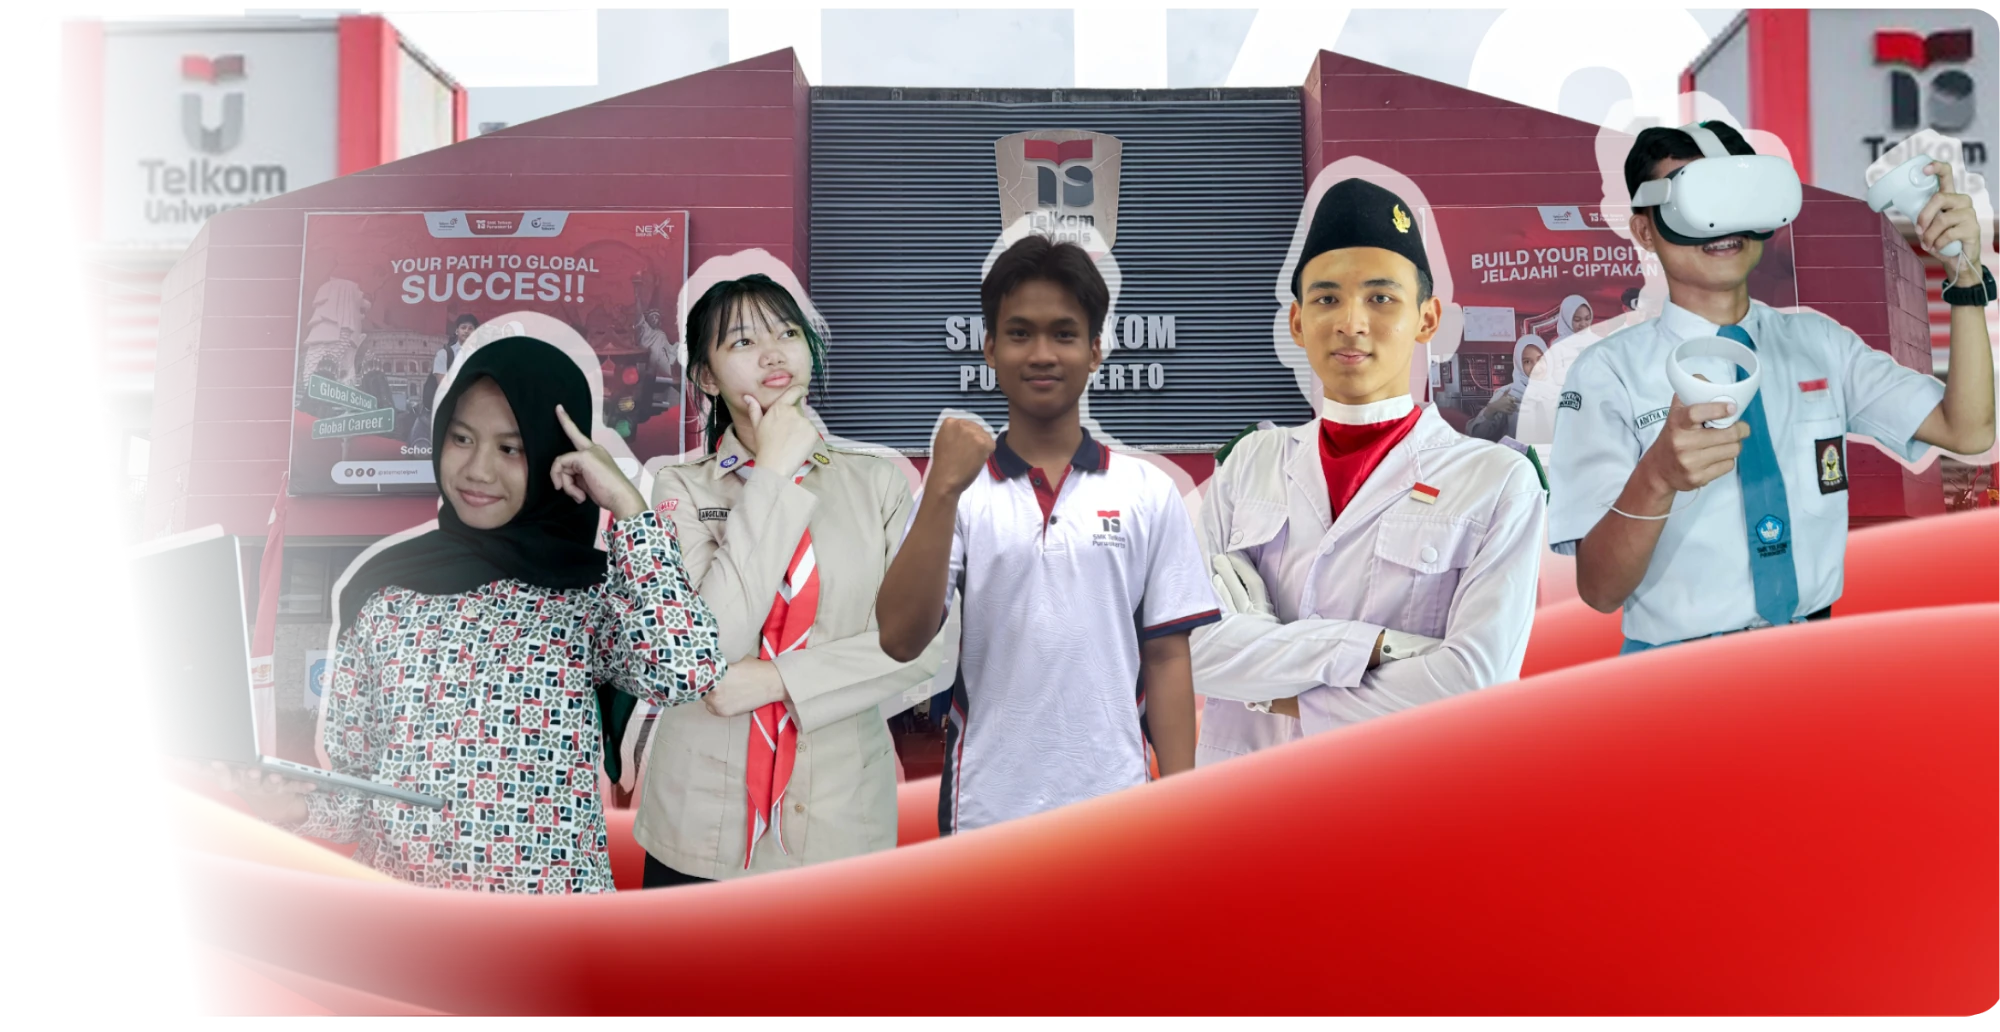
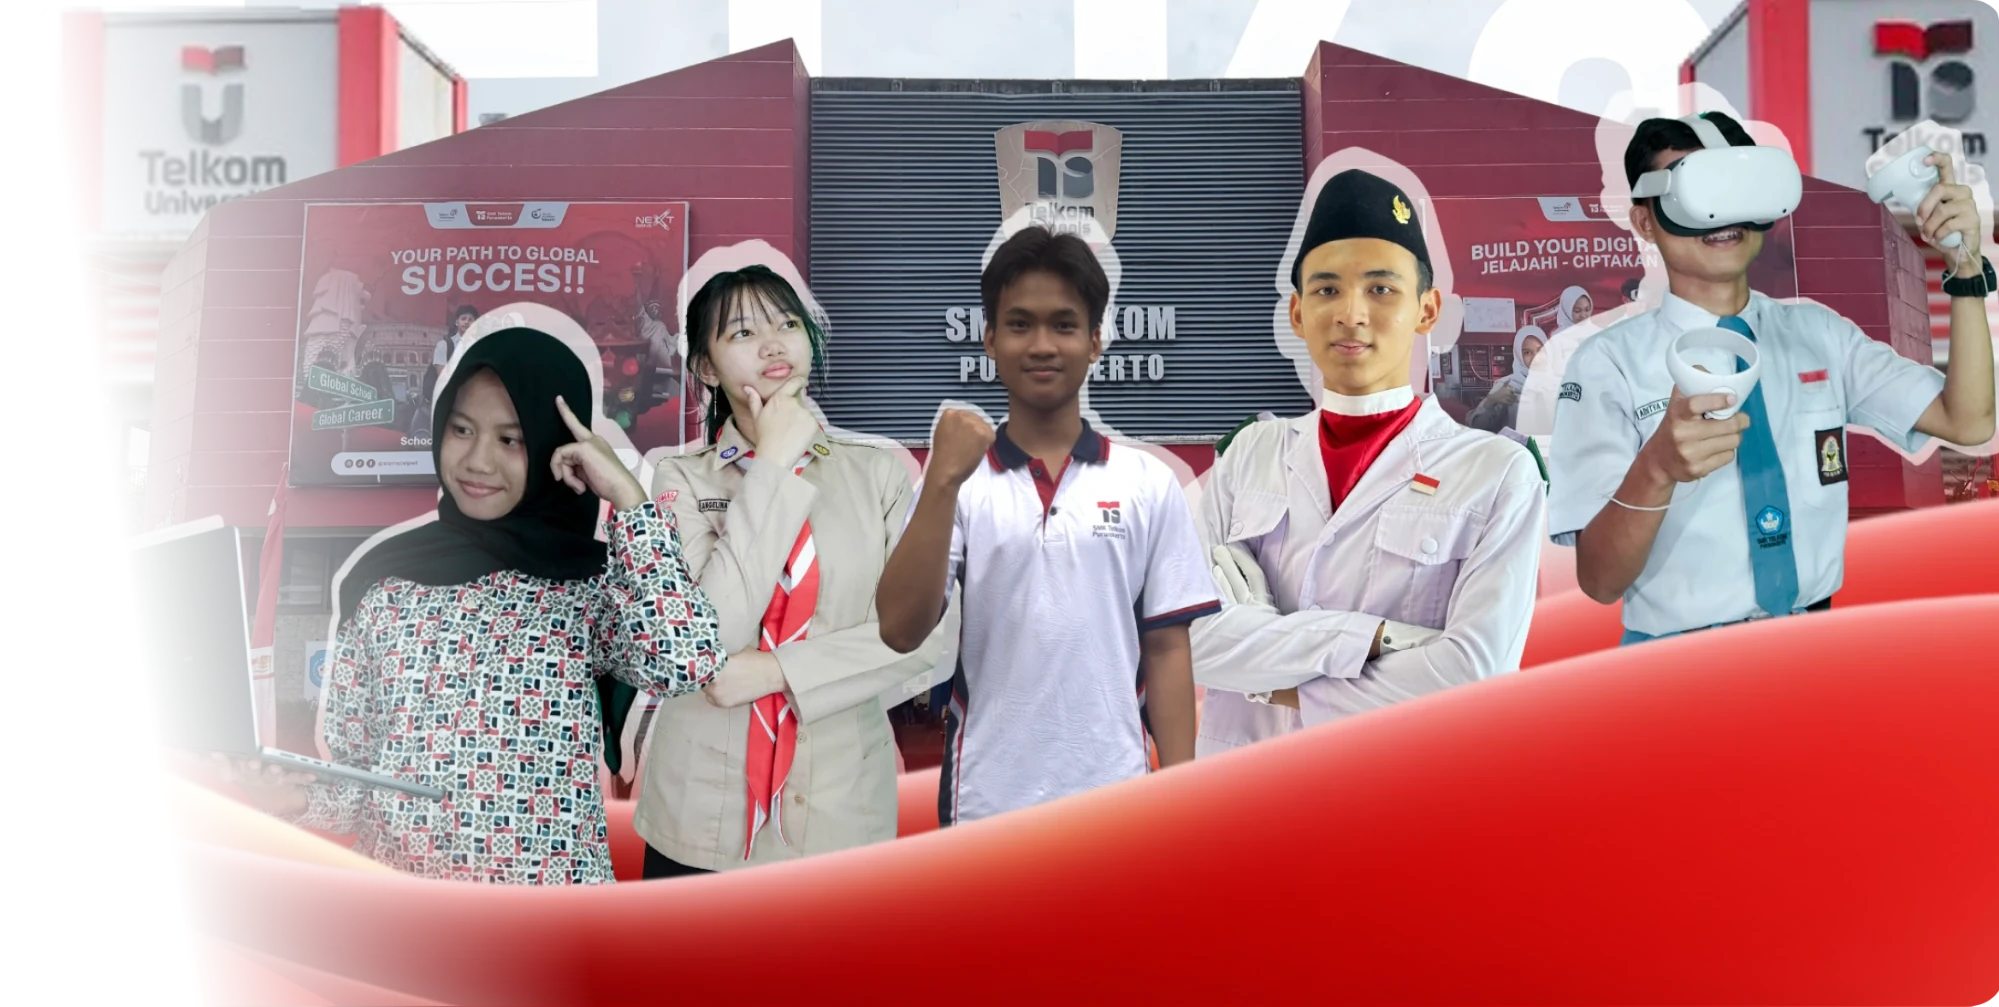
fix(ekskul-hero): crop transparent margins so the photo fills the card
The exported artwork had 9px/16px transparent bands top and bottom and a
transparent right column, leaving white gaps inside the hero card.

diff --git a/frontend/src/styles/hero.css b/frontend/src/styles/hero.css
@@ -132,7 +132,7 @@
 .hero-panel--bleed .hero-background { margin: 0; border-radius: 0; }
 .hero-panel--bleed .hero-profile-crop { border-radius: 0; }
 .hero-panel--teachers { --hero-media-ratio: 2200 / 1033; --hero-media-width: 72%; --hero-media-position: left center; }
-.hero-panel--activities { --hero-media-ratio: 2000 / 1032; --hero-media-width: 69%; --hero-media-position: right center; }
+.hero-panel--activities { --hero-media-ratio: 1999 / 1007; --hero-media-width: 69%; --hero-media-position: right center; }
 .hero-panel--admissions { --hero-media-ratio: 1248 / 676; --hero-media-width: 72%; }
 .hero-panel--school { --hero-media-width: 70%; }
 .hero-panel--announcement { --hero-media-ratio: 1600 / 751; --hero-media-position: right center; }

diff --git a/frontend/src/data/landingHeroSlides.js b/frontend/src/data/landingHeroSlides.js
@@ -49,7 +49,7 @@ export const landingHeroSlides = [
   {
     id: 'ekstrakurikuler', name: 'Ekstrakurikuler',
     content: { title: 'Ekstrakurikuler', titleAccent: '', description: ekstrakurikulerData.subtitle, primaryCta: { label: 'Lihat Kegiatan', href: '/ekstrakurikuler' } },
-    media: { src: activities, width: 2000, height: 1032, composition: 'activities', alt: 'Ekstrakurikuler' },
+    media: { src: activities, width: 1999, height: 1007, composition: 'activities', alt: 'Ekstrakurikuler' },
   },
   {
     id: 'bkk', name: 'BKK',

diff --git a/frontend/src/pages/EkstrakurikulerPage.jsx b/frontend/src/pages/EkstrakurikulerPage.jsx
@@ -275,8 +275,8 @@ const EkstrakurikulerPage = () => {
               <img
                 src={heroFigma}
                 alt={t("Siswa SMK Telkom Purwokerto mengeksplorasi teknologi")}
-                width="2000"
-                height="1032"
+                width="1999"
+                height="1007"
                 fetchPriority="high"
                 className="hero-image"
               />
